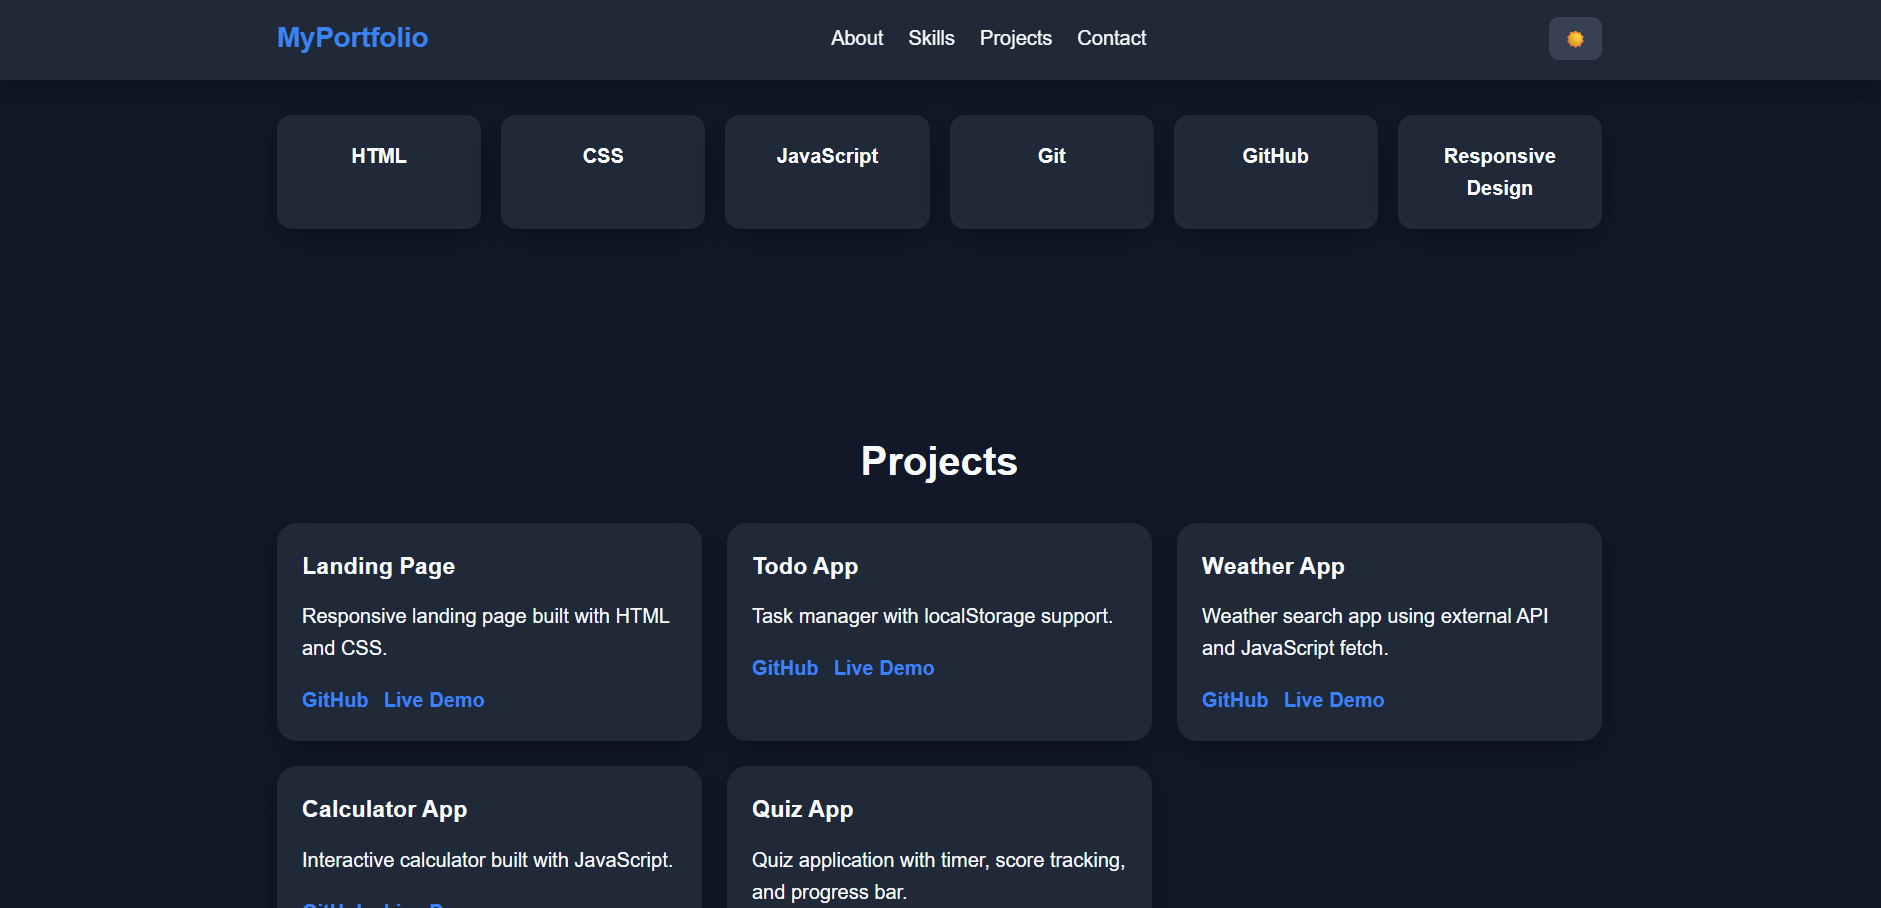
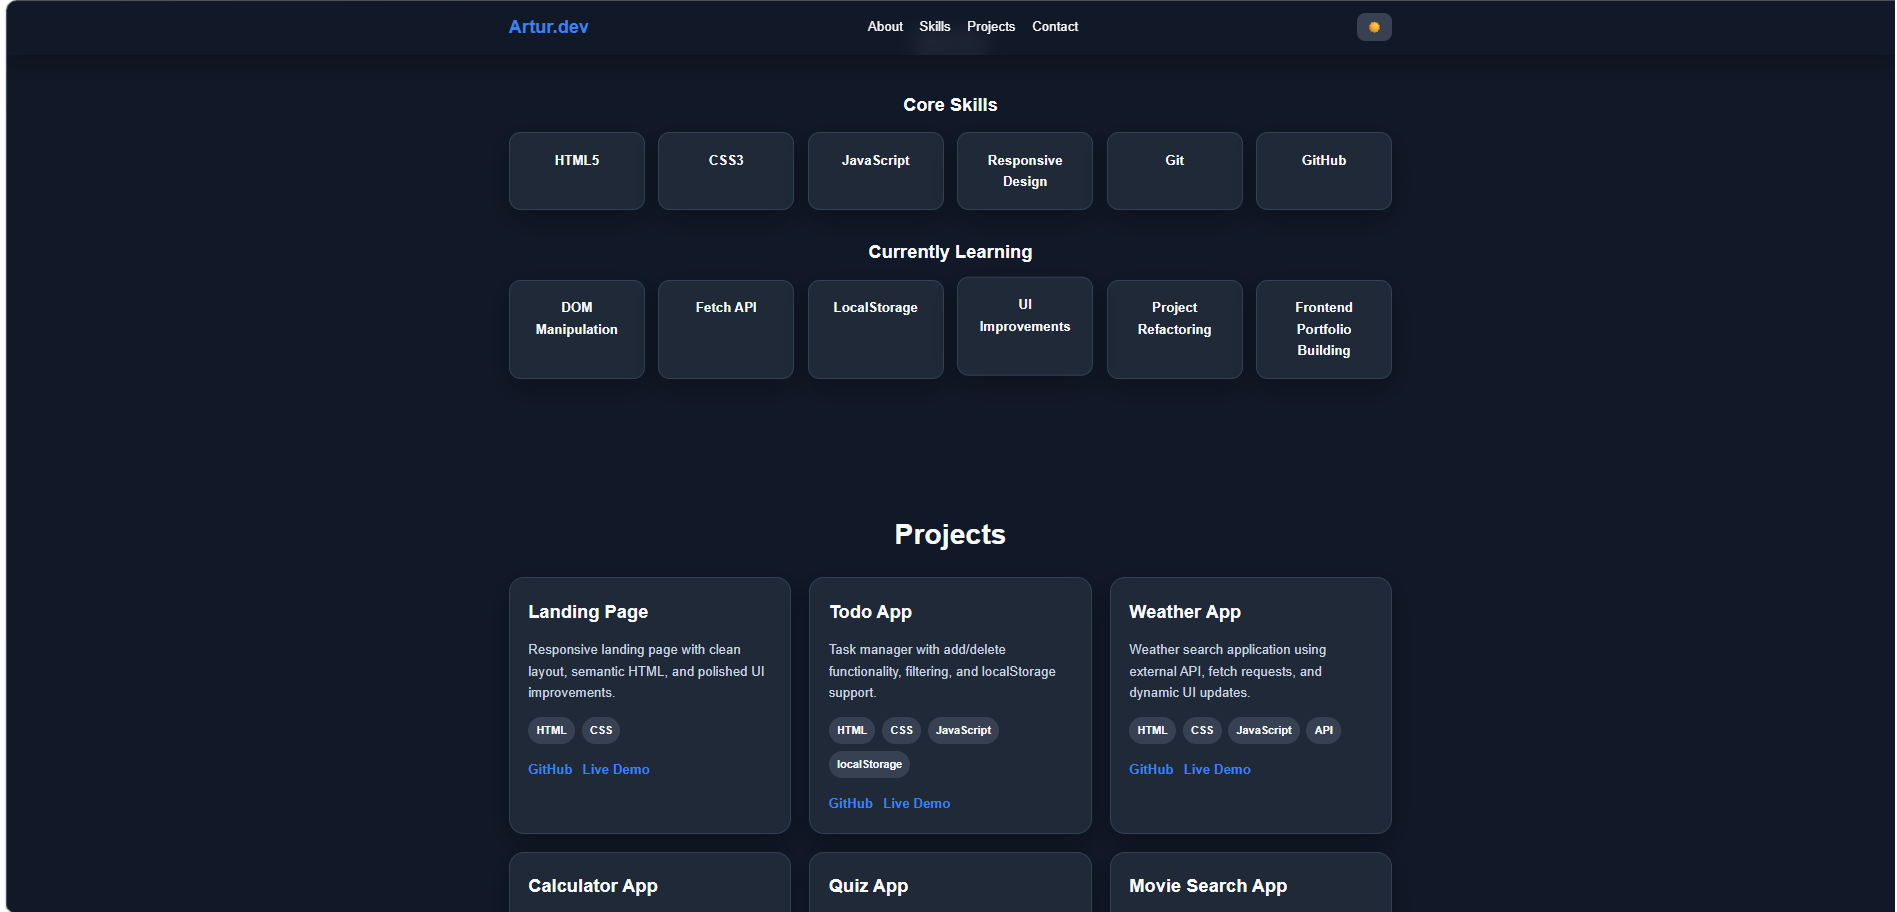
docs: update portfolio README and screenshot

diff --git a/README.md b/README.md
@@ -1,39 +1,49 @@
-# Portfolio Website
+# Portfolio Website V2
 
 Personal portfolio website built with HTML, CSS and JavaScript.
 
 ## Features
 
 - Responsive layout
+- Sticky header navigation
+- Hero section with clear call-to-action
 - About me section
-- Skills section
-- Project showcase
-- Contact links
+- Skills and currently learning sections
+- Project showcase with tech stack tags
+- Contact section with external links
 - Dark mode toggle
 - Theme saved in localStorage
+- Scroll reveal animations
+- Smooth scrolling navigation
 
 ## Technologies
 
-- HTML
-- CSS
+- HTML5
+- CSS3
 - JavaScript
 
-# Project Goal
+## Project Goal
 
-This project was created to present my frontend development skills, showcase my portfolio project, and provide a single place where recruiters and employers can quickly review my work.
+This project was created to present my frontend development skills, showcase my project, and provide a single place where recruiters and employers can quickly review my work and progress.
 
-## Project Included
+## Included Projects
 
 - Landing Page
 - ToDo App
 - Weather App
-- Calculation App
+- Calculator App
 - Quizz App
+- Movie Search App
+- Portfolio Website
 
 ## Live Demo
 
-[Open Portfolio](https://potfolio-website-archyteam.netlify.app)
+[Open Portfolio](https://portfolio-website-archyteam.netlify.app)
 
 ## Screenshot
 
 ![Portfolio Screenshot](images/screenshot.png)
+
+## Status
+
+Portfolio Website V2 - improved structure, UI polish, better project presentation, and scroll animations.
